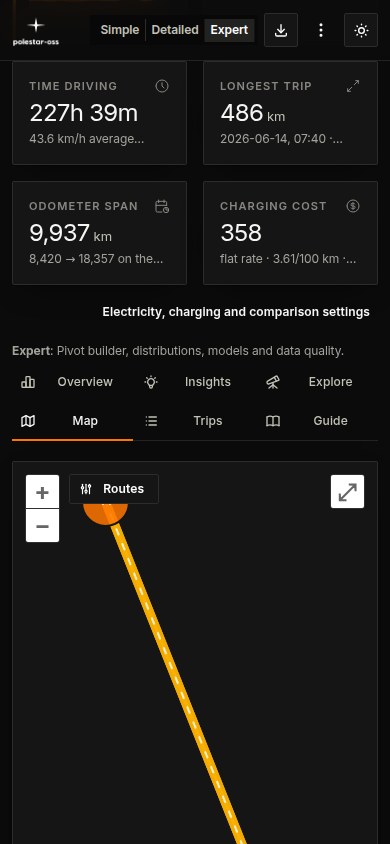
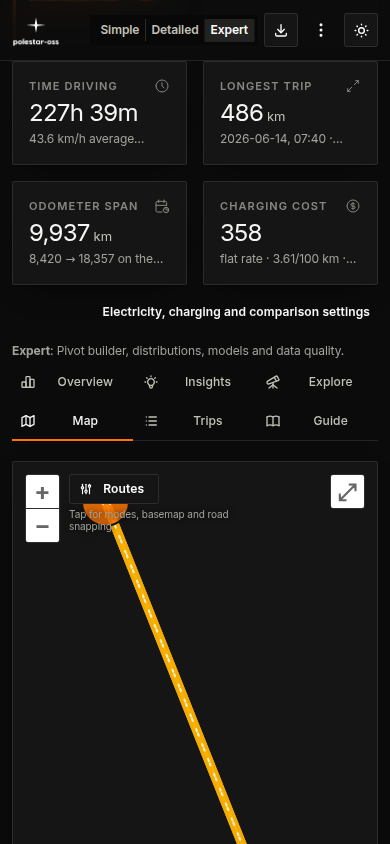
Link trips by day by default; hint phones where the map settings live
The dotted day chains are on from the start. On phones the controls sit
behind the button that shows the current mode, which nobody reads as a
settings button; a 10 px line under it says "Tap for modes, basemap and
road snapping" until the drawer has been opened once (remembered in
localStorage). User guide updated.

Claude-Session: https://claude.ai/code/session_01SuW428TjcKrgdZ1iCCks7Z

diff --git a/app/src/components/map/MapView.jsx b/app/src/components/map/MapView.jsx
@@ -63,13 +63,19 @@ function MapView({ data, distanceUnit = 'km', places }) {
     const [selectedTrip, setSelectedTrip] = useState(null);
     const [tripsToShow, setTripsToShow] = useState('150');
     const [showMarkers, setShowMarkers] = useState(true);
-    const [linkTripsByDay, setLinkTripsByDay] = useState(false);
+    const [linkTripsByDay, setLinkTripsByDay] = useState(true);
     const [flow, setFlow] = useState(!reducedMotion);
     const [snapRoads, setSnapRoads] = useState(false);
     const [snapConsent, setSnapConsent] = useState(false);
     const [snapProgress, setSnapProgress] = useState(null); // { done, total }
     const [snapVersion, setSnapVersion] = useState(0);
     const [drawerOpened, setDrawerOpened] = useState(false);
+    // One-line hint under the mobile controls button until the drawer has been opened once
+    const [hintSeen, setHintSeen] = useState(() => { try { return localStorage.getItem('polestar-map-hint-seen') === '1'; } catch { return false; } });
+    const openDrawer = () => {
+        setDrawerOpened(true);
+        if (!hintSeen) { setHintSeen(true); try { localStorage.setItem('polestar-map-hint-seen', '1'); } catch { /* storage unavailable */ } }
+    };
     const [hoverTrip, setHoverTrip] = useState(null);
     const [inView, setInView] = useState(null);
 
@@ -364,9 +370,16 @@ function MapView({ data, distanceUnit = 'km', places }) {
             )}
             {isMobile && (
                 <>
-                    <Button size="xs" variant="default" leftSection={<IconAdjustments size={14} />} onClick={() => setDrawerOpened(true)} style={{ position: 'absolute', top: 12, left: 56, zIndex: 5 }} className="ps-no-print">
-                        {MODES.find((m) => m.value === mode)?.label}
-                    </Button>
+                    <Box style={{ position: 'absolute', top: 12, left: 56, zIndex: 5 }} className="ps-no-print">
+                        <Button size="xs" variant="default" leftSection={<IconAdjustments size={14} />} onClick={openDrawer}>
+                            {MODES.find((m) => m.value === mode)?.label}
+                        </Button>
+                        {!hintSeen && (
+                            <Text size="10px" c="dimmed" mt={4} lh={1.2} style={{ maxWidth: 190, textShadow: '0 0 6px var(--ps-page)' }}>
+                                Tap for modes, basemap and road snapping
+                            </Text>
+                        )}
+                    </Box>
                     <Drawer opened={drawerOpened} onClose={() => setDrawerOpened(false)} position="bottom" size="70%" title="Map" radius={0}>
                         {panel}
                     </Drawer>

diff --git a/docs/USER_GUIDE.md b/docs/USER_GUIDE.md
@@ -83,12 +83,17 @@ hover.
 
 ## Map
 
-Four modes, switched in the panel on the left (a drawer on phones):
+Four modes, switched in the panel on the left (on phones, tap the button
+showing the current mode, "Routes" at first, to open the drawer with modes,
+basemap, trip linking and road snapping; a one-line hint says so until the
+first tap):
 
 - **Routes**: every trip as a glowing line coloured by efficiency, with a
   slow "flow" animation along the direction of travel. Start and end pins
   cluster when zoomed out; click a cluster to zoom in, a pin for the trip.
-  Pick one trip in "Single trip" to isolate it and dim the rest.
+  Consecutive trips of a day are linked by dotted chains (on by default;
+  switch it off in the panel). Pick one trip in "Single trip" to isolate it
+  and dim the rest.
 - **Heat**: a density heatmap of where you start and stop.
 - **Places**: bubbles sized by how many trips touch each place, drawn from the
   same clustering as the "Most visited" insight. Click one to fly to it.
